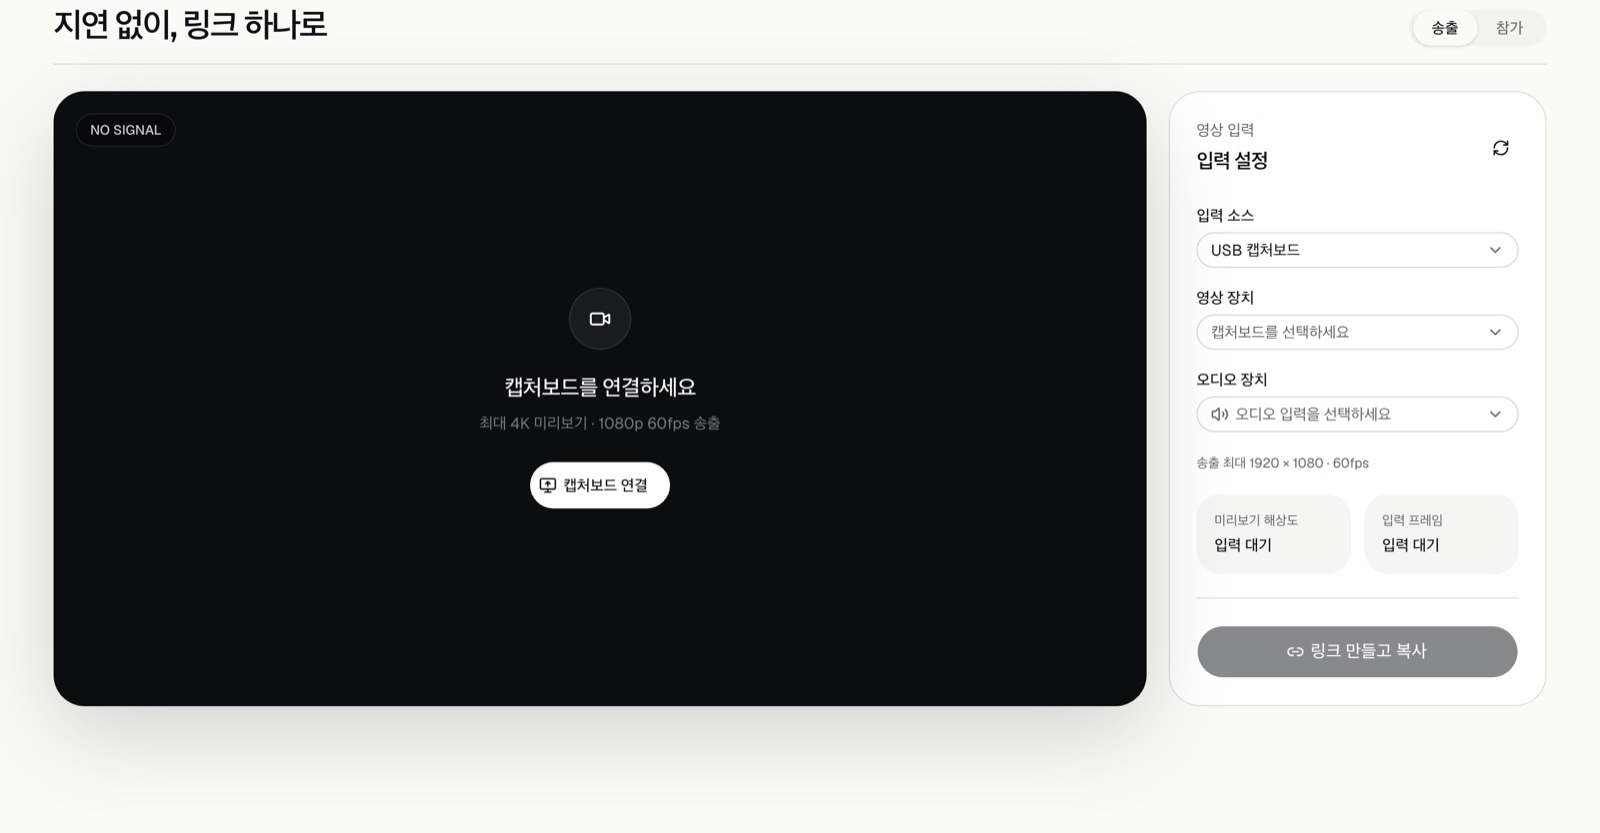
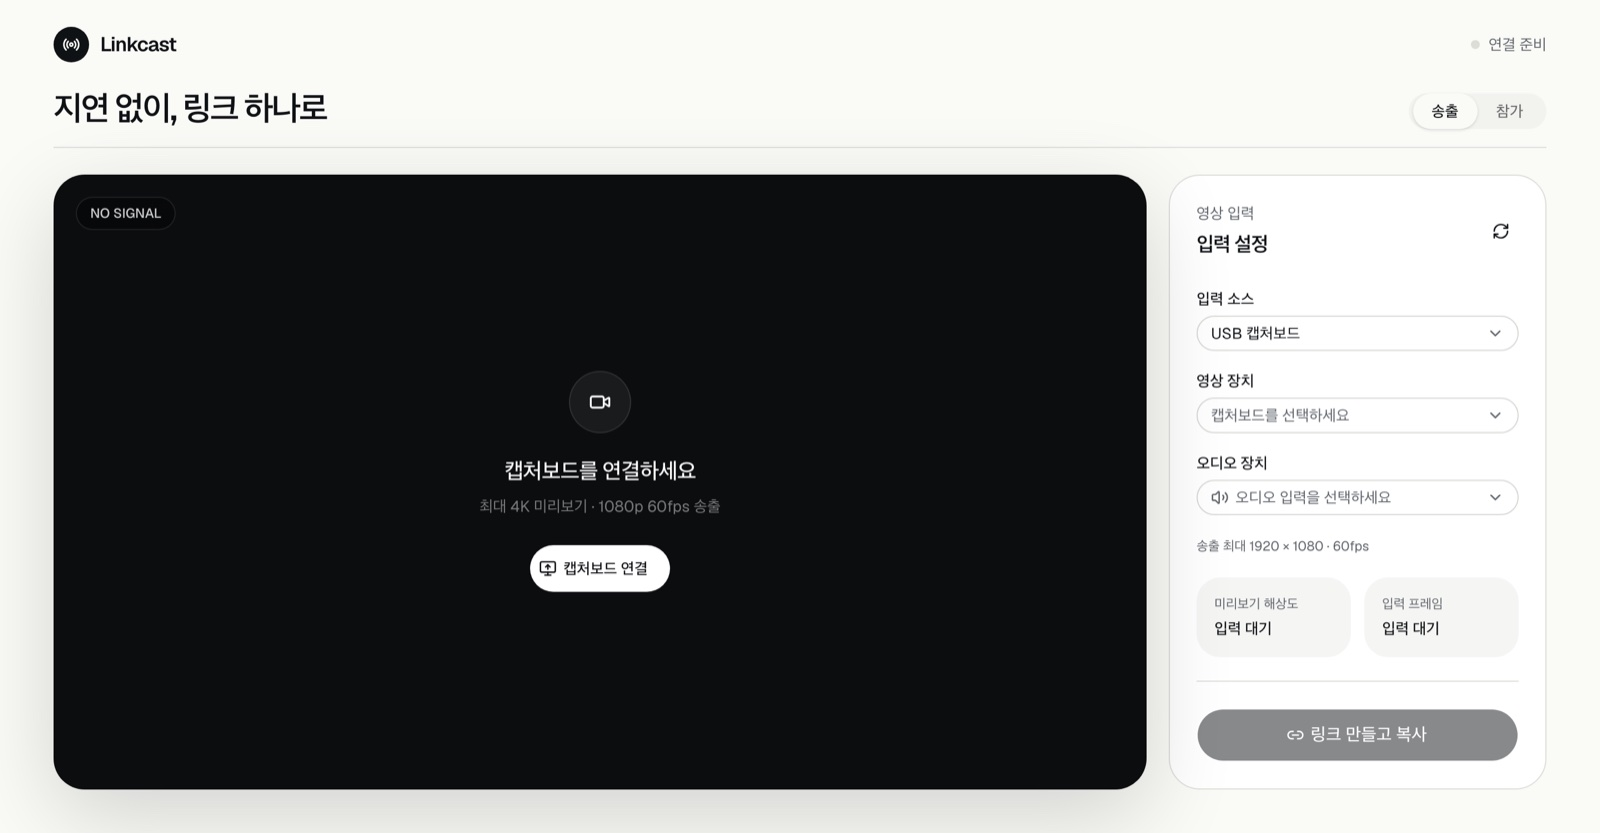
Linkcast 첫 화면 캡처를 윗부분이 잘리지 않게 다시 찍기

diff --git a/data.js b/data.js
@@ -120,7 +120,7 @@ window.PORTFOLIO = {
     {
       title: "Linkcast",
       media: { type: "images", label: "Linkcast 첫 화면", items: [
-        { src: "assets/linkcast-landing.jpg", width: 1600, height: 833, label: "Linkcast 첫 화면: 캡처보드 연결 안내와 입력 설정, 링크 만들고 복사 버튼" }
+        { src: "assets/linkcast-landing.jpg?v=2", width: 1600, height: 833, label: "Linkcast 첫 화면: 캡처보드 연결 안내와 입력 설정, 링크 만들고 복사 버튼" }
       ], caption: "Linkcast에 접속하면 처음 보이는 송출 화면입니다. 캡처보드를 연결하고 링크를 만들어 공유합니다." },
       kind: "웹 서비스 · 실시간 P2P 화면 공유",
       period: "2026.09 — 2026.10",

diff --git a/index.html b/index.html
@@ -151,7 +151,7 @@
 
   <footer class="footer">© 2026 BIYONGHIYON</footer>
 
-  <script src="data.js?v=18"></script>
+  <script src="data.js?v=19"></script>
   <script src="main.js?v=13"></script>
 </body>
 </html>
